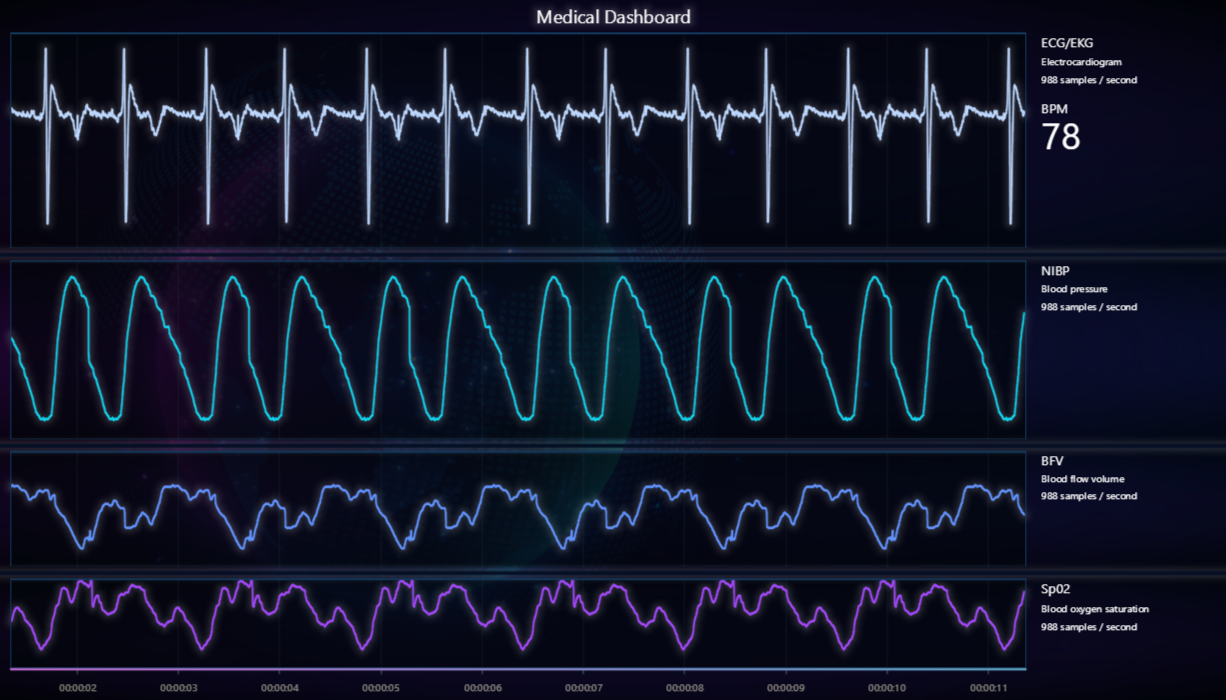
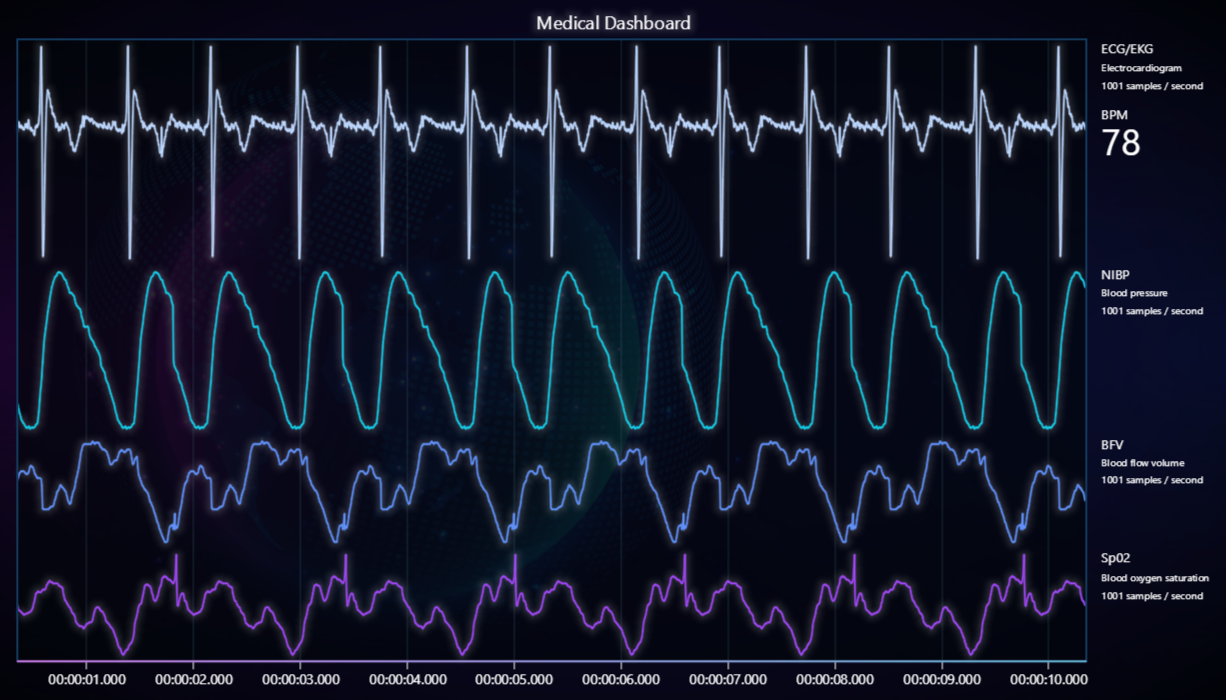
LCJS v7.0.1

Changed region(s): [[0.0, 0.0, 0.9918, 0.99]]

diff --git a/src/index.js b/src/index.js
@@ -55,7 +55,6 @@ fetch(new URL(document.head.baseURI).origin + new URL(document.head.baseURI).pat
                 theme: Themes[new URLSearchParams(window.location.search).get('theme') || 'darkGold'] || undefined,
             })
             .setTitle('Medical Dashboard')
-            .setMouseInteractions(false)
             .setPadding({ right: 140 })
             .setCursor((cursor) => cursor.setTickMarkerYVisible(false).setGridStrokeYStyle(emptyLine))
         chart.getDefaultAxisY().dispose()
@@ -76,11 +75,7 @@ fetch(new URL(document.head.baseURI).origin + new URL(document.head.baseURI).pat
             .setScrollStrategy(AxisScrollStrategies.progressive)
 
         const channelsComponents = channels.map((channel, i) => {
-            const axisY = yAxisList[i]
-                .setMouseInteractions(false)
-                .setTickStrategy(AxisTickStrategies.Empty)
-                .setStrokeStyle(emptyLine)
-                .setAnimationScroll(false)
+            const axisY = yAxisList[i].setTickStrategy(AxisTickStrategies.Empty).setStrokeStyle(emptyLine).setAnimationScroll(false)
             const series = chart
                 .addPointLineAreaSeries({
                     dataPattern: 'ProgressiveX',
@@ -108,8 +103,7 @@ fetch(new URL(document.head.baseURI).origin + new URL(document.head.baseURI).pat
             const ui = chart
                 .addUIElement(UILayoutBuilders.Column, chart.coordsRelative)
                 .setBackground((background) => background.setFillStyle(emptyFill).setStrokeStyle(emptyLine))
-                .setMouseInteractions(false)
-                .setVisible(false)
+                .setPointerEvents(false)
 
             ui.addElement(UIElementBuilders.TextBox).setText(channel.shortName)
             ui.addElement(UIElementBuilders.TextBox)
@@ -128,22 +122,12 @@ fetch(new URL(document.head.baseURI).origin + new URL(document.head.baseURI).pat
                     .setText('')
                     .setTextFont((font) => font.setSize(36))
             }
-
-            const positionUI = () => {
-                ui.setVisible(true)
-                    .setPosition(
-                        chart.translateCoordinate(
-                            { x: axisX.getInterval().end, y: axisY.getInterval().end },
-                            { x: axisX, y: axisY },
-                            chart.coordsRelative,
-                        ),
-                    )
-                    .setOrigin(UIOrigins.LeftTop)
-                    .setMargin({ left: 10 })
-            }
-            chart.onResize(positionUI)
-            requestAnimationFrame(positionUI)
-
+            chart.addEventListener('layoutchange', (event) => {
+                ui.setOrigin(UIOrigins.LeftTop).setPosition({
+                    x: event.margins.left + event.viewportWidth,
+                    y: event.axes.get(axisY).bottom + event.axes.get(axisY).height,
+                })
+            })
             return {
                 labelSampleRate,
                 labelBpmValue,

diff --git a/README.md b/README.md
@@ -78,17 +78,17 @@ Direct developer email support can be purchased through a [Support Plan][4] or b
 © LightningChart Ltd 2009-2022. All rights reserved.
 
 
-[Dashboard]: https://lightningchart.com/js-charts/api-documentation/v6.1.0/classes/Dashboard.html
-[XY cartesian chart]: https://lightningchart.com/js-charts/api-documentation/v6.1.0/classes/ChartXY.html
-[Line series]: https://lightningchart.com/js-charts/api-documentation/v6.1.0/classes/LineSeries.html
-[Axis]: https://lightningchart.com/js-charts/api-documentation/v6.1.0/classes/Axis.html
-[Axis tick strategies]: https://lightningchart.com/js-charts/api-documentation/v6.1.0/variables/AxisTickStrategies.html
-[Axis scroll strategies]: https://lightningchart.com/js-charts/api-documentation/v6.1.0/variables/AxisScrollStrategies.html
-[UI position origins]: https://lightningchart.com/js-charts/api-documentation/v6.1.0/variables/UIOrigins.html
-[UI layout builders]: https://lightningchart.com/js-charts/api-documentation/v6.1.0/variables/UILayoutBuilders.html
-[UI element builders]: https://lightningchart.com/js-charts/api-documentation/v6.1.0/variables/UIElementBuilders.html
-[Solid FillStyle]: https://lightningchart.com/js-charts/api-documentation/v6.1.0/classes/SolidFill.html
-[HEX color factory]: https://lightningchart.com/js-charts/api-documentation/v6.1.0/functions/ColorHEX.html
-[Solid LineStyle]: https://lightningchart.com/js-charts/api-documentation/v6.1.0/classes/SolidLine.html
-[Synchronize axis intervals]: https://lightningchart.com/js-charts/api-documentation/v6.1.0/functions/synchronizeAxisIntervals.html
+[Dashboard]: https://lightningchart.com/js-charts/api-documentation/v7.0.1/classes/Dashboard.html
+[XY cartesian chart]: https://lightningchart.com/js-charts/api-documentation/v7.0.1/classes/ChartXY.html
+[Line series]: https://lightningchart.com/js-charts/api-documentation/v7.0.1/classes/LineSeries.html
+[Axis]: https://lightningchart.com/js-charts/api-documentation/v7.0.1/classes/Axis.html
+[Axis tick strategies]: https://lightningchart.com/js-charts/api-documentation/v7.0.1/variables/AxisTickStrategies.html
+[Axis scroll strategies]: https://lightningchart.com/js-charts/api-documentation/v7.0.1/variables/AxisScrollStrategies.html
+[UI position origins]: https://lightningchart.com/js-charts/api-documentation/v7.0.1/variables/UIOrigins.html
+[UI layout builders]: https://lightningchart.com/js-charts/api-documentation/v7.0.1/variables/UILayoutBuilders.html
+[UI element builders]: https://lightningchart.com/js-charts/api-documentation/v7.0.1/variables/UIElementBuilders.html
+[Solid FillStyle]: https://lightningchart.com/js-charts/api-documentation/v7.0.1/classes/SolidFill.html
+[HEX color factory]: https://lightningchart.com/js-charts/api-documentation/v7.0.1/functions/ColorHEX.html
+[Solid LineStyle]: https://lightningchart.com/js-charts/api-documentation/v7.0.1/classes/SolidLine.html
+[Synchronize axis intervals]: https://lightningchart.com/js-charts/api-documentation/v7.0.1/functions/synchronizeAxisIntervals.html
 
